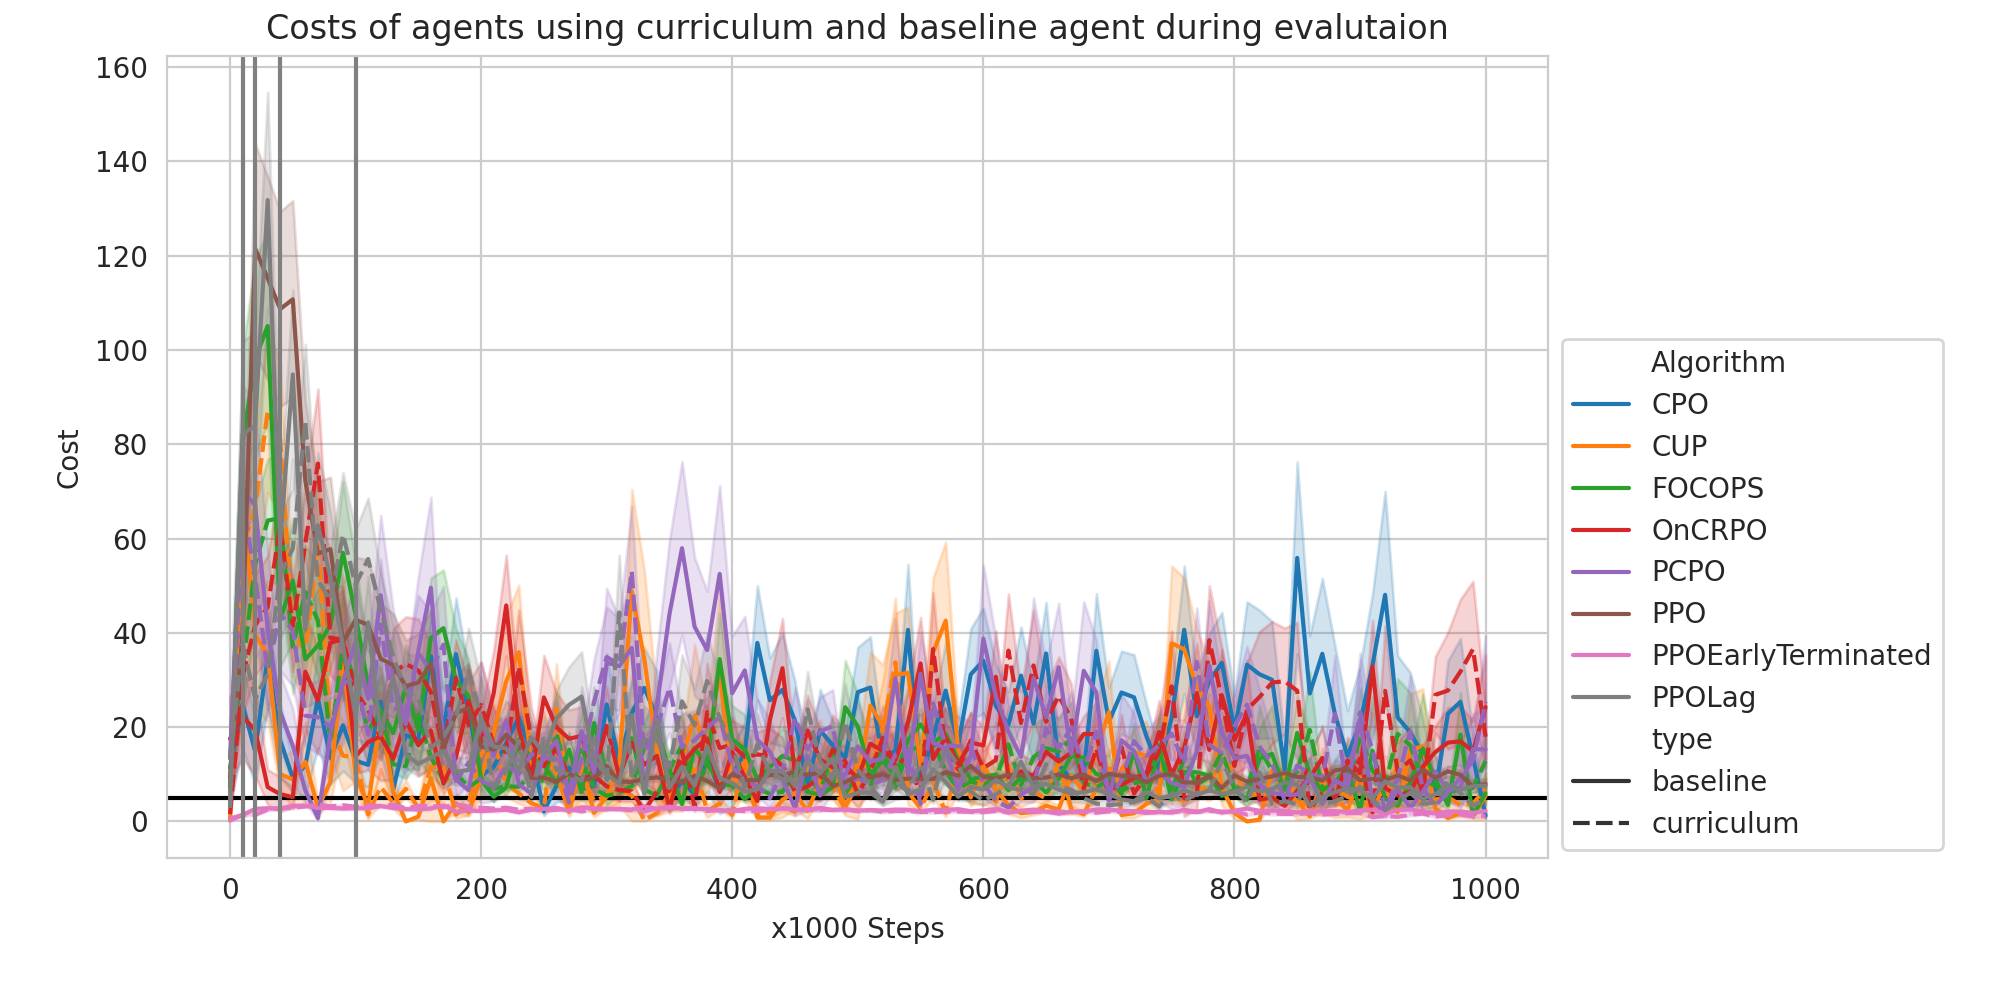
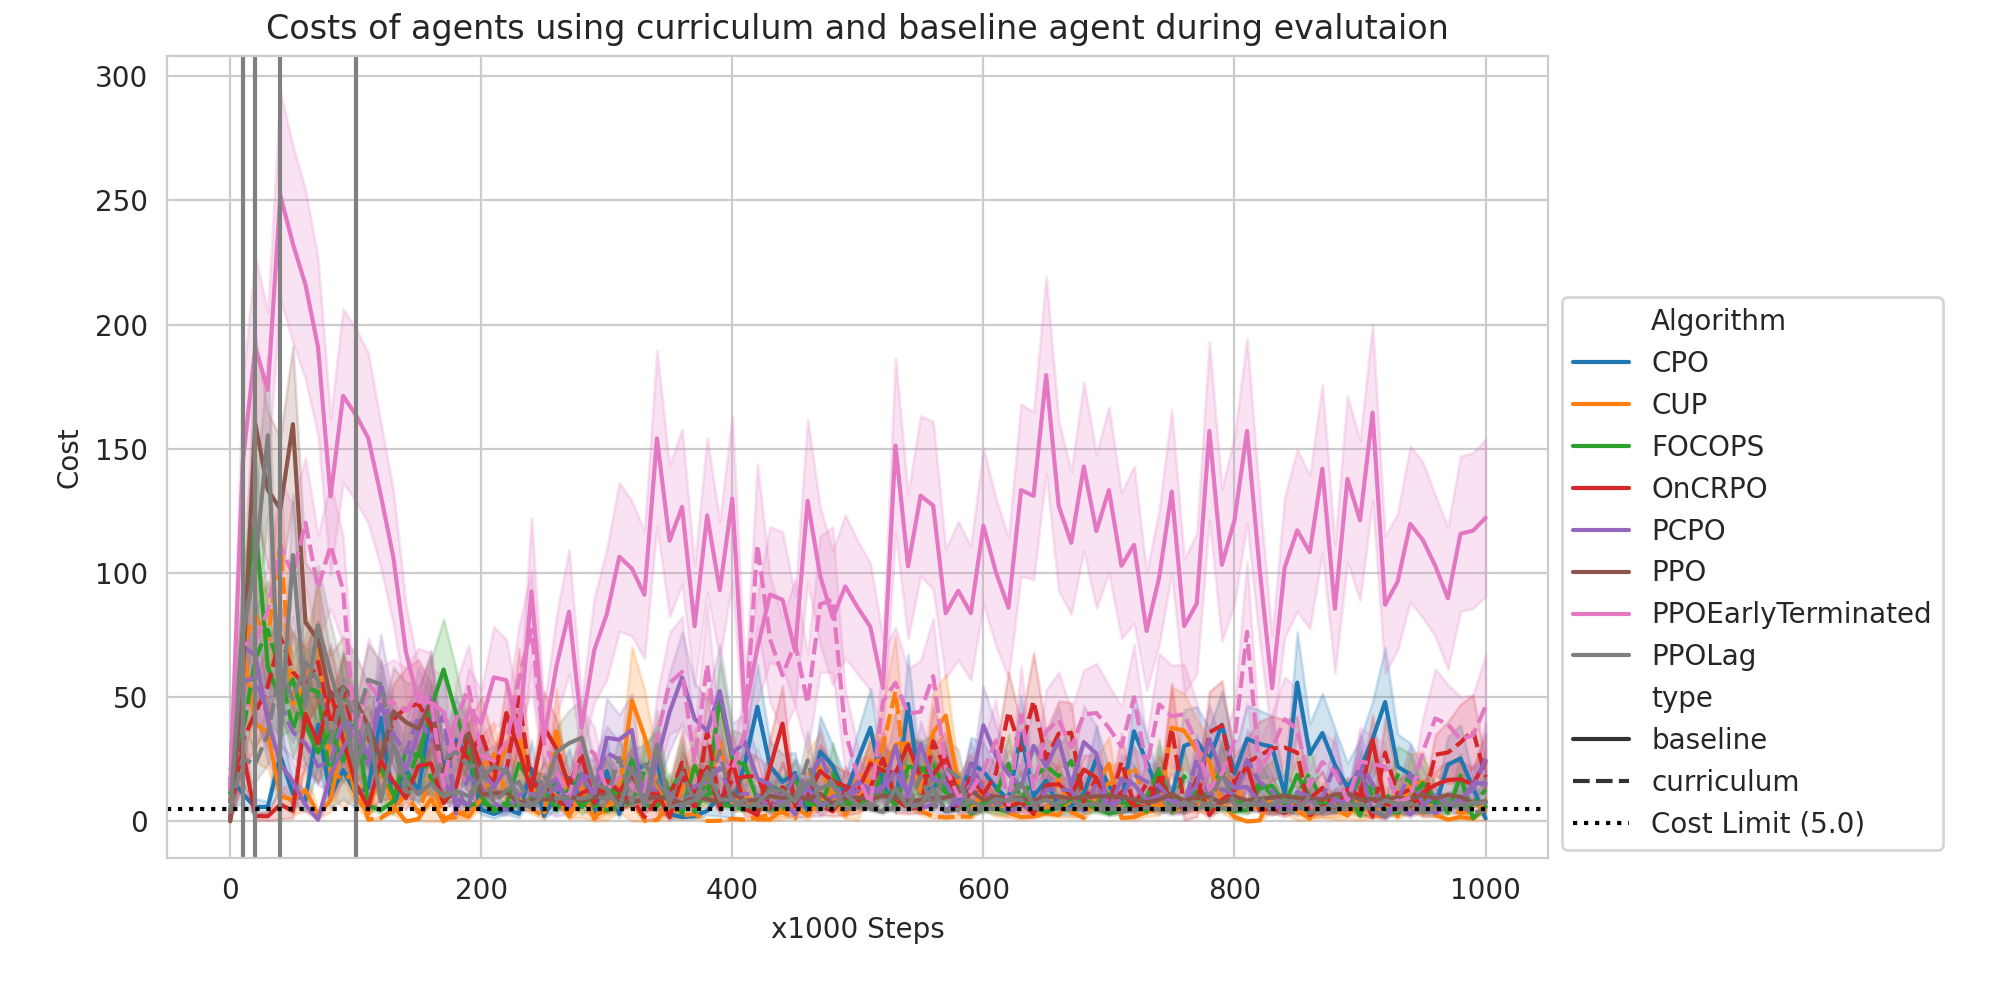
Show start locations and update algorithm_comparison figures

diff --git a/main.py b/main.py
@@ -101,7 +101,7 @@ def get_agents(folder, algorithms, env_id, cfgs, curr_changes):
             
             if int(start_task) != 0:
                 algo_folders = os.listdir("app/results/" + folder)
-                algo_folder = [fldr for fldr in algo_folders if algorithm in fldr and "HMR" + start_task in fldr][0]
+                algo_folder = [fldr for fldr in algo_folders if algorithm in fldr and "HM" + start_task in fldr][0]
                 algo_path = os.path.join("app/results/", folder, algo_folder)
                 seed_folder = [fldr for fldr in os.listdir(algo_path) if "seed-" + str(cfg.get("seed")).zfill(3) in fldr][0]
                 agent.agent.load(curr_changes[int(start_task) - 1], os.path.join(algo_path, seed_folder))
@@ -123,7 +123,7 @@ def train_agent(agent, episodes = 1, render_episodes = 1, make_videos = False, e
         
     # Remove wandb folder
     wandb_path = os.path.join(agent.agent.logger._log_dir, "wandb")
-    shutil.rmtree(wandb_path)
+    shutil.rmtree(wandb_path, ignore_errors=True)
 
 def remove_wandb(folder):
     for type in ["baseline", "curriculum"]:
@@ -182,18 +182,15 @@ def plot_train(folder, curr_changes, cost_limit, include_weak=False, include_see
             plt.ylim(0, 2 * cost_limit)
             zoomed = "_zoom"
 
-        if metric == 'cost':
-            plt.axhline(y=cost_limit, color='black', linestyle='-')
-        if metric == 'regret':
-            x = range(combined_df["step"].max())
-            y = [cost_limit * x_val for x_val in x]
-            plt.plot(x, y, color='black', linestyle=':')
         sns.lineplot(data=combined_df, x='step', y=metric, hue='Algorithm', style='type', errorbar="sd" if use_std else "se")
         if include_seeds:
             ax = sns.lineplot(data=combined_df, x='step', y=metric, hue='Algorithm', style='type', units='seed', estimator=None, legend=False)
 
         for change in curr_changes:
             plt.axvline(x=change, color="gray", linestyle='-')
+
+        if metric == 'cost':
+            plt.axhline(y=cost_limit, color='black', linestyle=':', label=f'Cost Limit ({cost_limit})')
 
         plt.legend(loc=(1.01, 0.01), ncol=1)
         if include_seeds:
@@ -284,12 +281,6 @@ def plot_eval(folder, curr_changes, cost_limit, save_freq, include_weak=False, i
             plt.ylim(0, 2 * cost_limit)
             zoomed = "_zoom"
 
-        if metric == 'cost':
-            plt.axhline(y=cost_limit, color='black', linestyle='-')
-        if metric == 'regret':
-            x = range(0, combined_df["step"].max() + save_freq, save_freq)
-            y = [cost_limit * i for i in range(len(x))]
-            plt.plot(x, y, color='black', linestyle=':')
         sns.lineplot(data=combined_df, x='step', y=metric, hue='Algorithm', style='type', errorbar="sd" if use_std else "se")
         if include_seeds:
             if include_repetitions:
@@ -300,6 +291,9 @@ def plot_eval(folder, curr_changes, cost_limit, save_freq, include_weak=False, i
 
         for change in curr_changes:
             plt.axvline(x=change, color="gray", linestyle='-')
+
+        if metric == 'cost':
+            plt.axhline(y=cost_limit, color='black', linestyle=':', label=f'Cost Limit ({cost_limit})')
 
         plt.legend(loc=(1.01, 0.01), ncol=1)
         if include_seeds:
@@ -346,9 +340,6 @@ def print_eval(folder, train_df, eval_df, save_freq, cost_limit):
             file.close()
 
 def run_experiment(eval_episodes, render_episodes, cost_limit, seed, save_freq, epochs, algorithm, env_id, folder, curr_changes):
-    if "HMR1" in env_id or "HMR2" in env_id:
-        epochs = 500
-    
     # Get configurations
     cfgs = get_configs(folder=folder, algos=[algorithm], epochs=epochs, cost_limit=cost_limit, seed=seed, 
                        save_freq = save_freq)
@@ -362,9 +353,9 @@ def run_experiment(eval_episodes, render_episodes, cost_limit, seed, save_freq, 
 
 def use_params(algorithm, end_task, algorithm_type, seed):
     if algorithm_type == "baseline":
-        env_id = f'SafetyPointHMR{end_task if end_task < 6 else "T"}-v0'
+        env_id = f'SafetyPointHM{end_task if end_task < 6 else "T"}-v0'
     elif algorithm_type == "curriculum":
-        env_id = f'SafetyPointFrom{end_task - 1}HMR{end_task if end_task < 6 else "T"}-v0'
+        env_id = f'SafetyPointFrom{end_task - 1}HM{end_task if end_task < 6 else "T"}-v0'
     else:
         raise Exception("Invalid algorithm type, must be either 'baseline' or 'curriculum'.")
 
@@ -382,18 +373,21 @@ if __name__ == '__main__':
     repetitions = 10
     baseline_algorithms = ["PPOLag"]#, "FOCOPS", "CUP", "PPOEarlyTerminated", "PPO", "CPO"]
     curr_algorithms = ["PPOLag"]#, "FOCOPS", "CUP", "PPOEarlyTerminated"]
-    folder_base = "incremental_static_curriculum_r"
+    folder_base = "show_tasks_and_start"
     curr_changes = [10, 20, 40, 100, 300, 700]
     seeds = [7337, 175, 4678, 9733, 3743, 572, 5689, 3968, 7596, 5905] # [int(rand.random() * 10000) for i in range(repetitions)]
 
     # Repeat experiments
-    wandb.login(key="4735a1d1ff8a58959d482ab9dd8f4a3396e2aa0e")
-    for end_task in range(2, len(curr_changes) + 1):
-        with Pool(8) as p:
-            args_base = list(product(baseline_algorithms, [end_task], ["baseline"], seeds))
-            args_curr = list(product(curr_algorithms, [end_task], ["curriculum"], seeds))
-            args = args_curr + args_base
-            p.starmap(use_params, args)
+    # wandb.login(key="4735a1d1ff8a58959d482ab9dd8f4a3396e2aa0e")
+    # for end_task in range(1, len(curr_changes) + 1):
+    #     with Pool(8) as p:
+    #         args_base = list(product(baseline_algorithms, [end_task], ["baseline"], seeds))
+    #         args_curr = list(product(curr_algorithms, [end_task], ["curriculum"], seeds))
+    #         args = args_curr + args_base
+    #         p.starmap(use_params, args)
+
+    # for i in range(7):
+    #     use_params(*("PPOLag", i, "baseline", 42))
 
     # Plot the results
     # train_df = plot_train(folder=folder_base, curr_changes=curr_changes, cost_limit=cost_limit, include_weak=False)

diff --git a/custom_envs/hand_made_levels/hm_level_base.py b/custom_envs/hand_made_levels/hm_level_base.py
@@ -1,10 +1,12 @@
 """Goal level 0."""
 
 # Introduce the required objects
-from safety_gymnasium.assets.geoms import Goal, Hazards
+from safety_gymnasium.assets.geoms import Goal, Hazards, IndicationArea
 # Need to inherit from BaseTask
 from safety_gymnasium.bases.base_task import BaseTask
 
+import random
+import string
 
 class HMLevelBase(BaseTask):
     """An agent must navigate to a goal."""
@@ -32,7 +34,29 @@ class HMLevelBase(BaseTask):
                                  (2, -1, 3, 1),
                                  (2, -0.5, 3, 0.5),
                                  ]
-        # self.agent.locations = [(1, 0)]
+        # self.agent.locations = [(2.5, 0)]
+
+        # Show start locations
+        # start_areas = [(2, -3, 3, 2),
+        #                          (-2, 2, 3, 3),
+        #                          (-3, -2, -2, 3),
+        #                          (-3, -3, 2, -2),
+        #                          # Bias towards difficult starting positions
+        #                          (2, -2, 3, 2),
+        #                          (2, -1.5, 3, 1.5),
+        #                          (2, -1, 3, 1),
+        #                          (2, -0.5, 3, 0.5),
+        #                          ]
+        # for i, (x_min, y_min, x_max, y_max) in enumerate(start_areas):
+        #     x_width = (x_max - x_min) / 2
+        #     y_width = (y_max - y_min) / 2
+        #     x_pos = (x_max + x_min) / 2
+        #     y_pos = (y_max + y_min) / 2
+        #     print(x_width, y_width, x_pos, y_pos)
+        #     print("inidication_area"+str(i))
+        #     random.seed(i)
+        #     name = ''.join(random.choices(string.ascii_uppercase + string.digits, k=7))
+        #     self._add_geoms(IndicationArea(name=name, num=1, keepout=-100, locations=[(x_pos, y_pos)], x_width=abs(x_width), y_width=abs(y_width)))
         
         self._steps = 0
 
